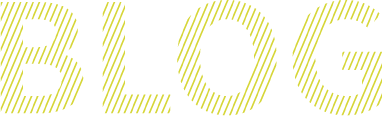
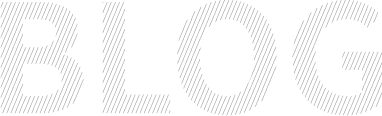
页首美化调整

Changed region(s): [[0.4607, 0.0, 1.0, 1.0], [0.0, 0.0, 0.2304, 0.9828], [0.2592, 0.0, 0.4607, 0.9828]]

diff --git a/app/(main)/Header.tsx b/app/(main)/Header.tsx
@@ -31,7 +31,8 @@ import { Tooltip } from '~/components/ui/Tooltip'
 import { url } from '~/lib'
 import { clamp } from '~/lib/math'
 export function Header() {
-  const isHomePage = usePathname() === '/'
+  const pathname = usePathname()
+  const isHomePage = pathname === '/'
 
   const headerRef = React.useRef<HTMLDivElement>(null)
   const avatarRef = React.useRef<HTMLDivElement>(null)
@@ -180,10 +181,22 @@ export function Header() {
                 <img src="/Diagonal-long.png" alt="Diagonal Long" className="h-[calc(100%*1/15)]" />
               </div>
 
-              {/* 保持原有的Diagonal-BLOG.png */}
-              <div className="absolute bottom-[calc(5px+100%*1/15+3px+2px)] left-[calc(5px+100%*1/8+5px+2px)] z-60">
-                <img src="/Diagonal-BLOG.png" alt="Diagonal BLOG" className="h-[calc(100%*1/1000)]" />
-              </div>
+              {/* 根据页面路径显示不同的图片 */}
+                <div className="absolute bottom-[calc(5px+100%*1/15+3px+2px)] left-[calc(5px+100%*1/8+5px+2px)] z-60">
+                  <img 
+                    src={
+                      // 按特定页面顺序排列，确保精确匹配
+                      pathname === '/blog' || pathname.startsWith('/blog/') ? '/Diagonal-BLOG.png' :
+                      pathname === '/footprints' || pathname.startsWith('/footprints/') ? '/Diagonal-FOOTPRINTS.png' :
+                      pathname === '/collections' || pathname.startsWith('/collections/') ? '/Diagonal-COLLECTIONS.png' :
+                      pathname === '/ama' || pathname.startsWith('/ama/') || pathname === '/contact' || pathname.startsWith('/contact/') ? '/Diagonal-CONTACT.png' :
+                      pathname === '/projects' || pathname.startsWith('/projects/') ? '/Diagonal-PROJECTS.png' :
+                      '/Diagonal-BLOG.png'
+                    } 
+                    alt="Page specific diagonal" 
+                    className="h-[calc(100%*1/1000)]" 
+                  />
+                </div>
             </motion.div>
           </div>
         </div>
